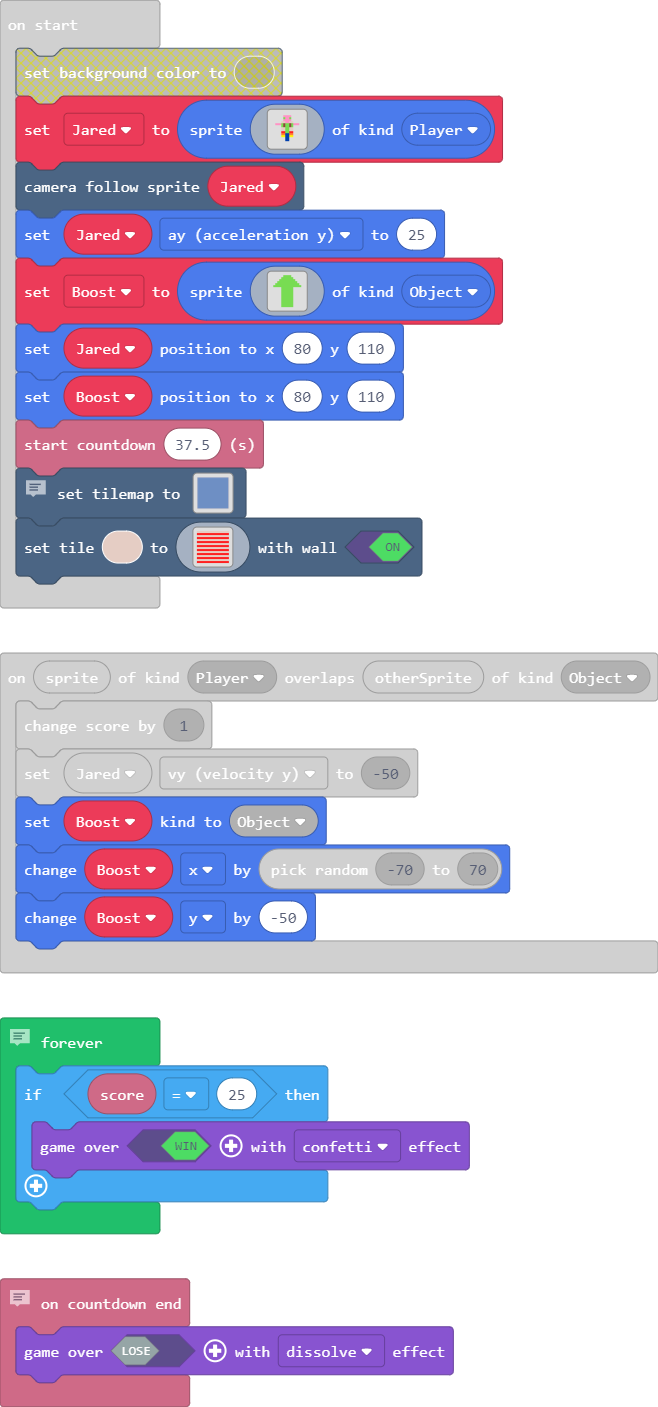
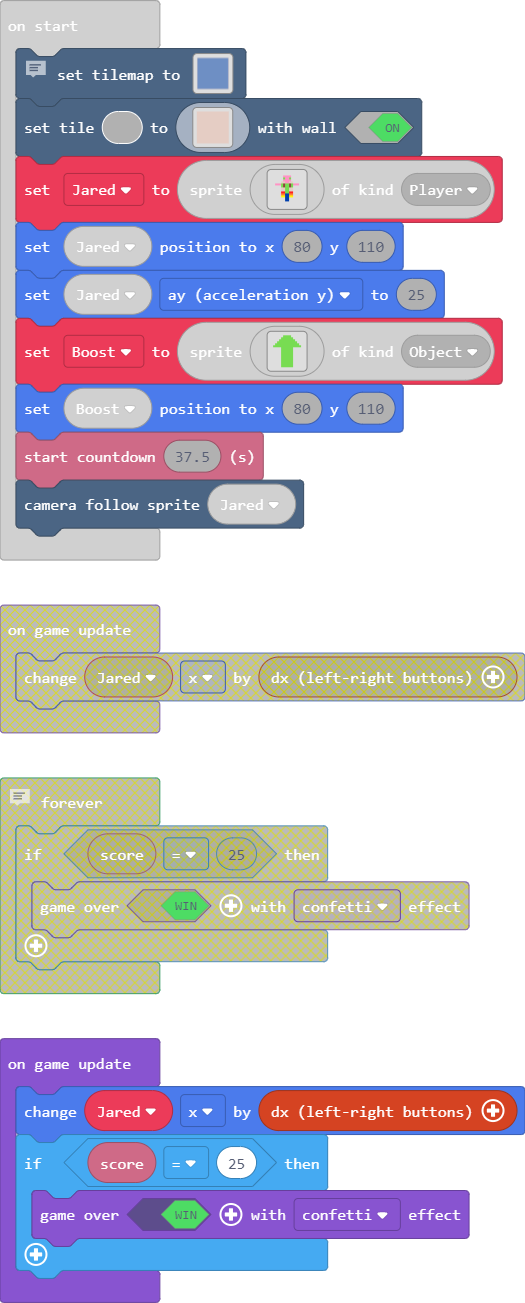
Update main.blocks, main.ts

diff --git a/main.ts b/main.ts
@@ -166,21 +166,21 @@ tiles.setTilemap(tiles.createTilemap(
         ))
 scene.setTile(13, img`
 d d d d d d d d d d d d d d d d 
-2 2 2 2 2 2 2 2 2 2 2 2 2 2 2 2 
 d d d d d d d d d d d d d d d d 
-2 2 2 2 2 2 2 2 2 2 2 2 2 2 2 2 
 d d d d d d d d d d d d d d d d 
-2 2 2 2 2 2 2 2 2 2 2 2 2 2 2 2 
 d d d d d d d d d d d d d d d d 
-2 2 2 2 2 2 2 2 2 2 2 2 2 2 2 2 
 d d d d d d d d d d d d d d d d 
-2 2 2 2 2 2 2 2 2 2 2 2 2 2 2 2 
 d d d d d d d d d d d d d d d d 
-2 2 2 2 2 2 2 2 2 2 2 2 2 2 2 2 
 d d d d d d d d d d d d d d d d 
-2 2 2 2 2 2 2 2 2 2 2 2 2 2 2 2 
 d d d d d d d d d d d d d d d d 
-2 2 2 2 2 2 2 2 2 2 2 2 2 2 2 2 
+d d d d d d d d d d d d d d d d 
+d d d d d d d d d d d d d d d d 
+d d d d d d d d d d d d d d d d 
+d d d d d d d d d d d d d d d d 
+d d d d d d d d d d d d d d d d 
+d d d d d d d d d d d d d d d d 
+d d d d d d d d d d d d d d d d 
+d d d d d d d d d d d d d d d d 
 `, true)
 Jared = sprites.create(img`
 . . . . . . . . . . . . . . . . 
@@ -200,7 +200,7 @@ Jared = sprites.create(img`
 . . . . . . . . . . . . . . . . 
 . . . . . . . . . . . . . . . . 
 `, SpriteKind.Player)
-scene.cameraFollowSprite(Jared)
+Jared.setPosition(80, 110)
 Jared.ay = 25
 Boost = sprites.create(img`
 . . . . . . 7 7 7 7 . . . . . . 
@@ -220,14 +220,11 @@ Boost = sprites.create(img`
 . . . . . 7 7 7 7 7 7 . . . . . 
 . . . . . 7 7 7 7 7 7 . . . . . 
 `, SpriteKind.Object)
-Jared.setPosition(80, 110)
 Boost.setPosition(80, 110)
 info.startCountdown(37.5)
+scene.cameraFollowSprite(Jared)
 game.onUpdate(function () {
     Jared.x += controller.dx()
-})
-// Adds win condition
-forever(function () {
     if (info.score() == 25) {
         game.over(true, effects.confetti)
     }
